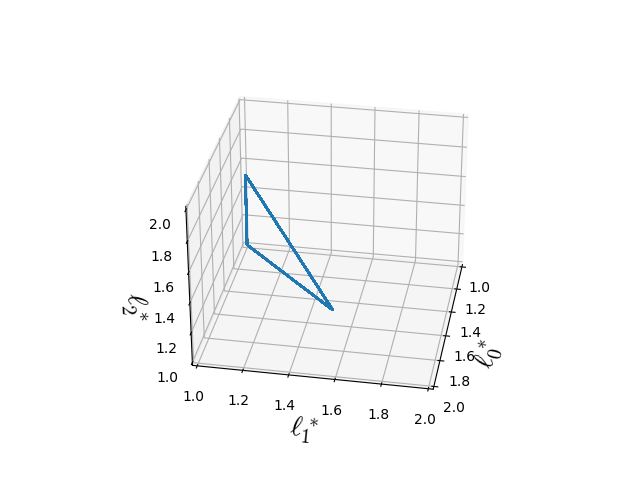
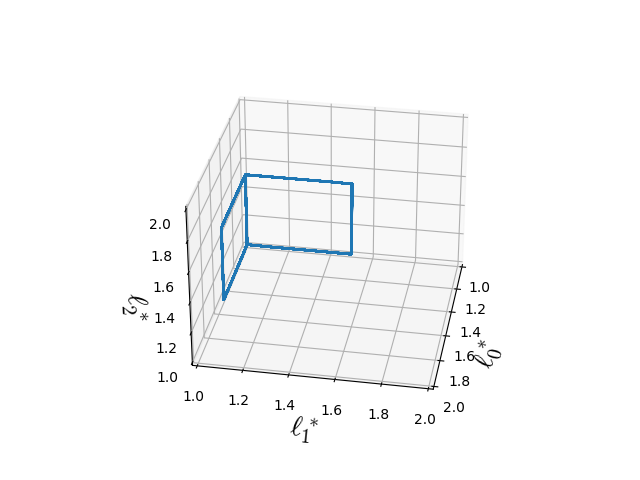
commit

Changed region(s): [[0.3438, 0.3438, 0.5625, 0.6562], [0.4062, 0.4062, 0.4375, 0.4688]]

diff --git a/sim/analysis/arm_length/arm_length_space_triangle.py b/sim/analysis/arm_length/arm_length_space_triangle.py
@@ -17,8 +17,8 @@ def main():
 
     # intervals = np.arange(0.1, 1.0, 0.2)
     # lengths = np.arange(1.1, 2.0, 0.2)
-    intervals = [0.7]
-    lengths   = [1.7]
+    intervals = [0.5]
+    lengths   = [1.5]
 
     for interval in tqdm(intervals):
         for length in tqdm(lengths, leave=False):
